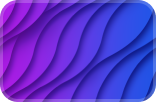
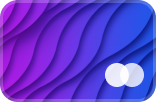
feat: redesign accounts cards component

Changed region(s): [[0.6667, 0.6176, 0.9231, 0.8529]]

diff --git a/app/components/products/HoldersAccountItem.tsx b/app/components/products/HoldersAccountItem.tsx
@@ -68,17 +68,17 @@ export const HoldersAccountItem = memo((props: {
     const isHoldersReady = useIsConnectAppReady(url, owner.toString({ testOnly: isTestnet }));
     const name = getAccountName(account.accountIndex, account.name);
     const ledgerContext = useLedgerTransport();
-    
+
     const priceAmount = useMemo(() => {
         try {
             const cryptoCurrency = account.cryptoCurrency;
-    
+
             if (!account || !account.cryptoCurrency || !account.balance) return 0n;
-    
+
             if (cryptoCurrency.ticker === 'TON') {
                 return BigInt(account.balance);
             }
-    
+
             const amount = toBnWithDecimals(account.balance, cryptoCurrency.decimals) / toNano(price?.price?.usd || 1n);
             return toBnWithDecimals(amount, cryptoCurrency.decimals);
         } catch (error) {
@@ -124,7 +124,9 @@ export const HoldersAccountItem = memo((props: {
         navigation.navigateHolders({ type: HoldersAppParamsType.Account, id: account.id }, isTestnet, isLedger);
     }, [account, needsEnrollment, isTestnet, onOpen, isLedger, ledgerContext]);
 
-    const subtitle = t('products.holders.accounts.basicAccount');
+    const subtitle = t('products.holders.accounts.network', {
+        networkName: account.network.replace('-mainnet', '').replace('-testnet', '').toUpperCase()
+    });
 
     const renderRightAction = (!!rightActionIcon && !!rightAction)
         ? () => {
@@ -250,8 +252,8 @@ export const HoldersAccountItem = memo((props: {
                             {!(hideCardsIfEmpty && account.cards.length === 0) ? (
                                 <View
                                     style={{
-                                        height: 46, marginTop: 10, gap: 8, flexDirection: 'row',
-                                        marginLeft: 78
+                                        height: 66, marginTop: 20, gap: 8, flexDirection: 'row',
+                                        marginLeft: 20
                                     }}
                                 >
                                     {account.cards.slice(0, 5).map((card, index) => {
@@ -260,20 +262,15 @@ export const HoldersAccountItem = memo((props: {
                                                 key={`card-item-${index}`}
                                                 card={card as GeneralHoldersCard}
                                                 theme={theme}
+                                                style={{ height: 46, width: 72, borderRadius: 12 }}
+                                                coverImageStyle={{ height: 46, width: 72, borderRadius: 12 }}
+                                                cardNumberStyle={{ fontSize: 10, left: 8, bottom: 8 }}
                                             />
                                         )
                                     })}
-                                    {account.cards.length > 4 && (
-                                        <LinearGradient
-                                            style={{ height: 30, width: 20 + 8 + 46, position: 'absolute', right: 0, top: 0 }}
-                                            colors={[
-                                                theme.style === 'light' ? 'rgba(255, 255, 255, 0)' : 'rgba(0, 0, 0, 0)',
-                                                (itemStyle as any)?.backgroundColor || theme.surfaceOnBg
-                                            ]}
-                                            start={{ x: 0, y: 0 }}
-                                            end={{ x: 0.5, y: 0 }}
-                                        />
-                                    )}
+                                    <View style={{ height: 46, width: 72, borderRadius: 12, backgroundColor: theme.divider, justifyContent: 'center', alignItems: 'center' }}>
+                                        <Image style={{ height: 24, width: 24, tintColor: theme.textSecondary }} source={require('@assets/ic-plus.png')} />
+                                    </View>
                                 </View>
                             ) : (
                                 <View style={{ height: 20 }} />

diff --git a/app/components/products/HoldersAccountCard.tsx b/app/components/products/HoldersAccountCard.tsx
@@ -5,6 +5,7 @@ import { ThemeType } from "../../engine/state/theme";
 import { PerfView } from "../basic/PerfView";
 import { PerfText } from "../basic/PerfText";
 import { useLockAppWithAuthState } from "../../engine/hooks/settings";
+import { ImageStyle, StyleProp, TextStyle, ViewStyle } from "react-native";
 
 const cardImages = {
     'dark': {
@@ -21,7 +22,13 @@ const cardImages = {
     }
 }
 
-export const HoldersAccountCard = memo(({ card, theme }: { card: GeneralHoldersCard, theme: ThemeType }) => {
+export const HoldersAccountCard = memo(({ card, theme, style, coverImageStyle, cardNumberStyle }: { 
+    card: GeneralHoldersCard, 
+    theme: ThemeType, 
+    style?: StyleProp<ViewStyle>, 
+    coverImageStyle?: StyleProp<ImageStyle>,
+    cardNumberStyle?: StyleProp<TextStyle> 
+}) => {
     const [lockAppWithAuth] = useLockAppWithAuthState();
     // TODO: remove this when we have the correct personalization codes
     let imageType: 'holders' | 'classic' | 'whales' | 'black-pro' = 'black-pro';
@@ -31,10 +38,10 @@ export const HoldersAccountCard = memo(({ card, theme }: { card: GeneralHoldersC
     }
 
     return (
-        <PerfView style={{ width: 46, height: 30, borderRadius: 6 }}>
-            <Image source={cardImages[theme.style === 'dark' ? 'dark' : 'light'][imageType]} style={{ width: 46, height: 30 }} />
+        <PerfView style={[{ width: 46, height: 30, borderRadius: 6 }, style]}>
+            <Image source={cardImages[theme.style === 'dark' ? 'dark' : 'light'][imageType]} style={[{ width: 46, height: 30 }, coverImageStyle]} />
             {!!card.lastFourDigits && (
-                <PerfText style={{ position: 'absolute', left: 4, bottom: 3.5, fontSize: 7.5, fontWeight: '500', color: theme.textUnchangeable }}>
+                <PerfText style={[{ position: 'absolute', left: 4, bottom: 3.5, fontSize: 7.5, fontWeight: '500', color: theme.textUnchangeable }, cardNumberStyle]}>
                     {lockAppWithAuth ? card.lastFourDigits : '****'}
                 </PerfText>
             )}

diff --git a/app/components/products/HoldersAccounts.tsx b/app/components/products/HoldersAccounts.tsx
@@ -157,11 +157,11 @@ export const HoldersAccounts = memo(({
             title={t('products.holders.accounts.title')}
             // re-map to add height correction for accounts with no cards
             items={accs.map((item) => {
-                return { ...item, height: item.cards.length > 0 ? 122 : 86 }
+                return { ...item, height: item.cards.length > 0 ? 152 : 86 }
             })}
             renderItem={renderItem}
             renderFace={renderFace}
-            itemHeight={122}
+            itemHeight={152}
             theme={theme}
             limitConfig={{
                 maxItems: 4,

diff --git a/app/i18n/i18n_uk.ts b/app/i18n/i18n_uk.ts
@@ -563,7 +563,8 @@ const schema: PrepareSchema<LocalizationSchema, "" | "_plural"> = {
                 primaryName: 'Основний рахунок',
                 paymentName: 'Платіжний рахунок {{accountIndex}}',
                 topUp: 'Поповнити рахунок',
-                addNew: 'Додати рахунок'
+                addNew: 'Додати рахунок',
+                network: 'Мережа {{networkName}}',
             },
             "pageTitles": {
                 "general": "Tonhub Карти",

diff --git a/app/i18n/i18n_fr.ts b/app/i18n/i18n_fr.ts
@@ -563,7 +563,8 @@ const schema: PrepareSchema<LocalizationSchema, "" | "_plural"> = {
                 "primaryName": "Compte principal",
                 "paymentName": "Compte de paiement {{accountIndex}}",
                 "topUp": "Recharger le compte",
-                "addNew": "Ajouter un compte"
+                "addNew": "Ajouter un compte",
+                "network": "Réseau {{networkName}}",
             },
             "pageTitles": {
                 "general": "Cartes Tonhub",

diff --git a/app/i18n/i18n_pt.ts b/app/i18n/i18n_pt.ts
@@ -563,7 +563,8 @@ const schema: PrepareSchema<LocalizationSchema, "" | "_plural"> = {
                 "primaryName": "Conta principal",
                 "paymentName": "Conta de pagamento {{accountIndex}}",
                 "topUp": "Recarregar conta",
-                "addNew": "Adicionar conta"
+                "addNew": "Adicionar conta",
+                "network": "Rede {{networkName}}",
             },
             "pageTitles": {
                 "general": "Cartões Tonhub",

diff --git a/app/i18n/i18n_it.ts b/app/i18n/i18n_it.ts
@@ -563,7 +563,8 @@ const schema: PrepareSchema<LocalizationSchema, "" | "_plural"> = {
                 "primaryName": "Conto principale",
                 "paymentName": "Conto di pagamento {{accountIndex}}",
                 "topUp": "Ricarica conto",
-                "addNew": "Aggiungi account"
+                "addNew": "Aggiungi account",
+                "network": "Rete {{networkName}}",
             },
             "pageTitles": {
                 "general": "Carte Tonhub",

diff --git a/app/i18n/i18n_de.ts b/app/i18n/i18n_de.ts
@@ -563,7 +563,8 @@ const schema: PrepareSchema<LocalizationSchema, "" | "_plural"> = {
                 "primaryName": "Hauptkonto",
                 "paymentName": "Zahlungskonto {{accountIndex}}",
                 "topUp": "Konto aufladen",
-                "addNew": "Konto hinzufügen"
+                "addNew": "Konto hinzufügen",
+                "network": "{{networkName}}-Netzwerk",
             },
             "pageTitles": {
                 "general": "Tonhub-Karten",

diff --git a/app/i18n/i18n_en.ts b/app/i18n/i18n_en.ts
@@ -563,7 +563,8 @@ const schema: PrepareSchema<LocalizationSchema, "" | "_plural"> = {
                 "primaryName": "Main account",
                 "paymentName": "Spending account {{accountIndex}}",
                 "topUp": "Top up account",
-                "addNew": "Add new account"
+                "addNew": "Add new account",
+                "network": "{{networkName}} network",
             },
             "pageTitles": {
                 "general": "Tonhub Cards",

diff --git a/app/i18n/i18n_es.ts b/app/i18n/i18n_es.ts
@@ -563,7 +563,8 @@ const schema: PrepareSchema<LocalizationSchema, "" | "_plural"> = {
                 "primaryName": "Cuenta principal",
                 "paymentName": "Cuenta de pago {{accountIndex}}",
                 "topUp": "Recargar cuenta",
-                "addNew": "Agregar cuenta"
+                "addNew": "Agregar cuenta",
+                "network": "Red {{networkName}}",
             },
             "pageTitles": {
                 "general": "Tarjetas Tonhub",

diff --git a/app/i18n/i18n_ru.ts b/app/i18n/i18n_ru.ts
@@ -564,6 +564,7 @@ const schema: PrepareSchema<LocalizationSchema, '_0' | '_1' | '_2'> = {
                 "paymentName": "Платежный счет {{accountIndex}}",
                 "topUp": "Пополнить счёт",
                 "addNew": "Добавить счёт",
+                "network": "Сеть {{networkName}}",
             },
             "pageTitles": {
                 "general": "Tonhub Cards",

diff --git a/app/i18n/schema.ts b/app/i18n/schema.ts
@@ -565,7 +565,8 @@ export type LocalizationSchema = {
                 primaryName: string,
                 paymentName: string,
                 topUp: string,
-                addNew: string
+                addNew: string,
+                network: string,
             },
             pageTitles: {
                 general: string,
